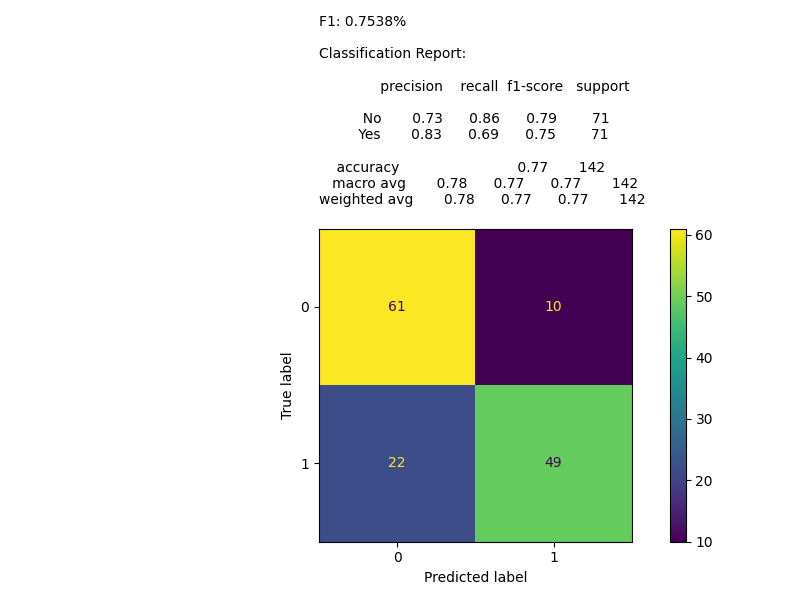
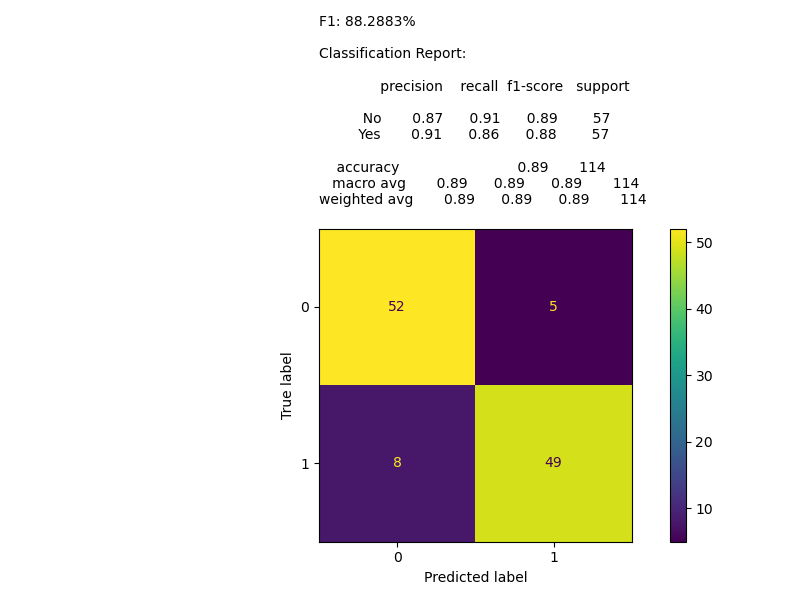
Refactor code, finish KNN regression code

diff --git a/KNN_analysis/training_model.py b/KNN_analysis/training_model.py
@@ -1,13 +1,13 @@
 import sys
-import pandas as pd
-from sklearn.metrics import confusion_matrix, recall_score, f1_score, precision_score, accuracy_score
-from sklearn.model_selection import train_test_split, RandomizedSearchCV, StratifiedKFold
-from sklearn.neighbors import KNeighborsRegressor, KNeighborsClassifier
-from sklearn.pipeline import make_pipeline
-from sklearn.preprocessing import StandardScaler
+
 import matplotlib.pyplot as plt
-from sklearn.metrics import f1_score, mean_absolute_error, classification_report, ConfusionMatrixDisplay, confusion_matrix, roc_curve, RocCurveDisplay, auc
+import pandas as pd
+from sklearn.metrics import confusion_matrix, precision_score, recall_score, f1_score, ConfusionMatrixDisplay, \
+    classification_report
+from sklearn.model_selection import train_test_split
 import data_fetching
+from KNN_analysis.knn_classifier import KNN_classifier
+from KNN_analysis.knn_regression import KNN_regression
 
 
 def main():
@@ -18,11 +18,16 @@ def main():
     no_data = data[data['growth_rate'] == 'No']
     yes_data = data[data['growth_rate'] == 'Yes'].sample(n=no_data.shape[0])
 
-    balanced_Data = pd.concat([yes_data, no_data], ignore_index=True)
-    X = balanced_Data.drop(columns=['growth_rate', 'future_close'])
+    balanced_Data = pd.concat([yes_data, no_data], ignore_index=False)
+
+    balanced_data = balanced_Data.sort_index()
+
+    # print(balanced_data.head())
+
+    X = balanced_data.drop(columns=['growth_rate', 'future_close'])
 
     # Do not count dates for the prediction
-    X = X.reset_index(drop=True)
+    # X = X.reset_index(drop=True)
 
     X = X.dropna()
 
@@ -30,82 +35,39 @@ def main():
 
     X_train, X_valid, y_train, y_valid = train_test_split(X, y, test_size=0.2, stratify=y)
 
-    # best_score = 0
-    # best_k = 1
-    #
-    # model = None
+    y_pred = KNN_classifier(X_train, X_valid, y_train, y_valid)
 
-    # Determine the best k value
-    # for k in range(1, 20):
-    #     model = make_pipeline(StandardScaler(), KNeighborsClassifier(k, weights='distance'))
-    #     model.fit(X_train, y_train)
-    #
-    #     score = model.score(X_valid, y_valid)
-    #
-    #     if score > best_score:
-    #         best_score = score
-    #         best_k = k
-
-    params = {
-        'n_neighbors': range(3, 20),
-        'weights': ['uniform', 'distance'],
-        'leaf_size': [20, 25, 30, 35],
-        # 'p': [1, 2, 3, 4, 5, 6, 7]
-    }
-
-    model = KNeighborsClassifier()
-    scores = {
-        'accuracy': accuracy_score,
-        'f1': f1_score
-    }
-
-    # KFold = StratifiedKFold(shuffle=True, n_splits=3)
-    knn_search = RandomizedSearchCV(estimator=model, param_distributions=params, cv=5, n_jobs=-1, refit=True, n_iter=448)
-    knn_search = knn_search.fit(X_train, y_train)
-    knn_results = knn_search.cv_results_
-    print(pd.DataFrame(knn_results))
-
-    ss = StandardScaler()
-    X_train = ss.fit_transform(X_train)
-    X_valid = ss.transform(X_valid)
-    # print('Best score:', best_score)
-    # print('Best K:', best_k)
-    best_params = knn_search.best_params_
-    print(best_params)
-    model = KNeighborsClassifier(**best_params).fit(X_train, y_train)
-    y_pred = model.predict(X_valid)
     conf_matrix = confusion_matrix(y_valid, y_pred)
-
     print(conf_matrix)
-
     precision = precision_score(y_valid, y_pred, pos_label="Yes")
     recall = recall_score(y_valid, y_pred, pos_label="Yes")
     f1 = f1_score(y_valid, y_pred, pos_label="Yes")
-
     print(precision, recall, f1)
-
     fig, ax = plt.subplots(figsize=(8, 6))
     disp = ConfusionMatrixDisplay(confusion_matrix=confusion_matrix(y_valid, y_pred))
     disp.plot(ax=ax)
-
-    title_text = f"F1: {f1*100:.4f}%\n\nClassification Report:\n\n{classification_report(y_valid, y_pred)}"
+    title_text = f"F1: {f1 * 100:.4f}%\n\nClassification Report:\n\n{classification_report(y_valid, y_pred)}"
     ax.set_title(title_text, fontsize=10, loc='left')
-
     plt.tight_layout()
-    plt.savefig('plots/confusion_matrix_cv3.png')
+    plt.savefig('plots/confusion_matrix.png')
 
-    # y_values = balanced_Data['future_close']
-    #
-    # X_train, X_valid, y_train, y_valid = train_test_split(X, y_values, test_size=0.2)
-    #
-    # regression = make_pipeline(StandardScaler(), KNeighborsRegressor(best_k, weights='distance'))
-    #
-    # regression.fit(X_train, y_train)
-    #
-    # y_pred = regression.predict(X_valid)
-    #
-    # print(regression.score(X_valid, y_valid))
+    y_values = balanced_Data['future_close'].values
 
+    X_train, X_valid, y_train, y_valid = train_test_split(X, y_values, test_size=0.2)
+
+    X_training = X_train.reset_index(drop=True)
+    X_validation = X_valid.reset_index(drop=True)
+
+    y_pred = KNN_regression(X_training, X_validation, y_train, y_valid)
+
+    plt.figure(figsize=(10,5))
+
+    plt.plot(X_valid.index, y_valid, 'b.', label='Actual Future Close')
+    plt.plot(X_valid.index, y_pred, 'r.', label='Predicted Future Close')
+    plt.xlabel('Date')
+    plt.ylabel('Future Close')
+    plt.legend(loc='best')
+    plt.savefig("plots/knn_validation.png")
 
 if __name__ == '__main__':
     sys.exit(main())

diff --git a/KNN_analysis/knn_classifier.py b/KNN_analysis/knn_classifier.py
@@ -1,0 +1,36 @@
+import pandas as pd
+from matplotlib import pyplot as plt
+from sklearn.metrics import accuracy_score, f1_score, confusion_matrix, precision_score, recall_score, \
+    ConfusionMatrixDisplay, classification_report
+from sklearn.model_selection import RandomizedSearchCV
+from sklearn.neighbors import KNeighborsClassifier
+from sklearn.preprocessing import StandardScaler
+
+
+def KNN_classifier(X_train, X_valid, y_train, y_valid):
+    params = {
+        'n_neighbors': range(3, 20),
+        'weights': ['uniform', 'distance'],
+        'leaf_size': [20, 25, 30, 35],
+        # 'p': [1, 2, 3, 4, 5, 6, 7]
+    }
+    model = KNeighborsClassifier()
+    scores = {
+        'accuracy': accuracy_score,
+        'f1': f1_score
+    }
+    # KFold = StratifiedKFold(shuffle=True, n_splits=3)
+    knn_search = RandomizedSearchCV(estimator=model, param_distributions=params, cv=5, n_jobs=-1, refit=True,
+                                    n_iter=448)
+    knn_search = knn_search.fit(X_train, y_train)
+    knn_results = knn_search.cv_results_
+    print(pd.DataFrame(knn_results))
+    ss = StandardScaler()
+    X_train = ss.fit_transform(X_train)
+    X_valid = ss.transform(X_valid)
+    best_params = knn_search.best_params_
+    print(best_params)
+    model = KNeighborsClassifier(**best_params).fit(X_train, y_train)
+    y_pred = model.predict(X_valid)
+
+    return y_pred

diff --git a/KNN_analysis/knn_regression.py b/KNN_analysis/knn_regression.py
@@ -1,0 +1,36 @@
+import pandas as pd
+from matplotlib import pyplot as plt
+from sklearn.metrics import accuracy_score, f1_score, confusion_matrix, precision_score, recall_score, \
+    ConfusionMatrixDisplay, classification_report
+from sklearn.model_selection import RandomizedSearchCV
+from sklearn.neighbors import KNeighborsRegressor
+from sklearn.preprocessing import StandardScaler
+
+
+def KNN_regression(X_train, X_valid, y_train, y_valid):
+
+    params = {
+        'n_neighbors': range(3, 20),
+        'weights': ['uniform', 'distance'],
+        'leaf_size': [20, 25, 30, 35],
+        # 'p': [1, 2, 3, 4, 5, 6, 7]
+    }
+    model = KNeighborsRegressor()
+
+    # KFold = StratifiedKFold(shuffle=True, n_splits=3)
+    knn_search = RandomizedSearchCV(estimator=model, param_distributions=params, cv=5, n_jobs=-1, refit=True,
+                                    n_iter=448)
+    knn_search = knn_search.fit(X_train, y_train)
+    knn_results = knn_search.cv_results_
+    print(pd.DataFrame(knn_results))
+    ss = StandardScaler()
+    X_train = ss.fit_transform(X_train)
+    X_valid = ss.transform(X_valid)
+    best_params = knn_search.best_params_
+    print(best_params)
+    model = KNeighborsRegressor(**best_params).fit(X_train, y_train)
+    y_pred = model.predict(X_valid)
+
+    return y_pred
+
+
